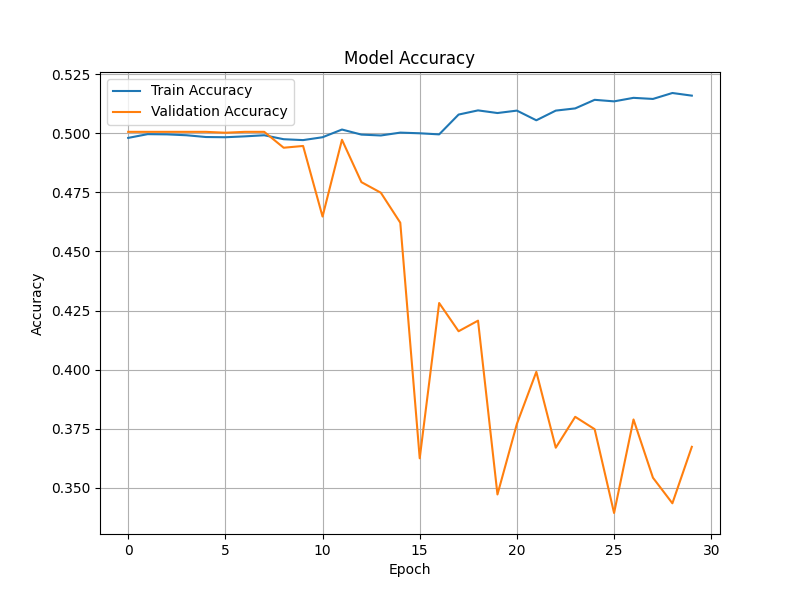
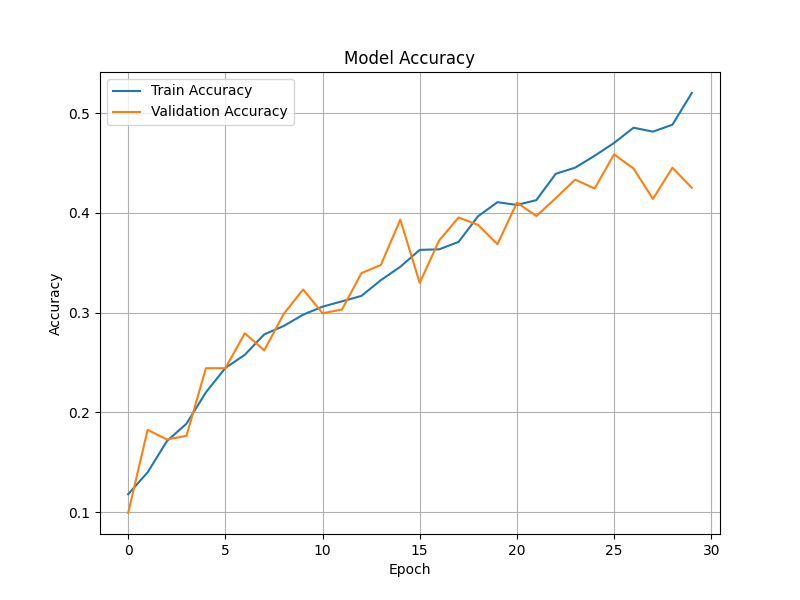
feat: final update of the cnn model for the thesis as well as adding plots and grad-cam images of sample data

diff --git a/mushroom_classifier/shroomModel.py b/mushroom_classifier/shroomModel.py
@@ -1,16 +1,46 @@
 import os
+import random
 
+import cv2
 import kagglehub
 import matplotlib.pyplot as plt
 import numpy as np
+import pandas as pd
 import seaborn as sns
 import tensorflow as tf
 from keras.callbacks import EarlyStopping, ReduceLROnPlateau
-from keras.layers import Conv2D, Dense, Dropout, Flatten, MaxPooling2D
-from keras.models import Sequential
+from keras.layers import Conv2D, Dense, Dropout, Flatten, Input, MaxPooling2D
 from PIL import ImageFile
 from sklearn.metrics import classification_report, confusion_matrix
+from sklearn.model_selection import train_test_split
+from sklearn.utils.class_weight import compute_class_weight
 from tensorflow.keras.preprocessing.image import ImageDataGenerator
+
+
+def make_gradcam_heatmap(img_array, model, last_conv_layer_name, pred_index=None):
+    grad_model = tf.keras.models.Model(
+        model.inputs, [model.get_layer(last_conv_layer_name).output, model.output]
+    )
+    with tf.GradientTape() as tape:
+        conv_outputs, predictions = grad_model(img_array)
+        if pred_index is None:
+            pred_index = tf.argmax(predictions[0])
+        class_channel = predictions[:, pred_index]
+
+    grads = tape.gradient(class_channel, conv_outputs)
+    pooled_grads = tf.reduce_mean(grads, axis=(0, 1, 2))
+    conv_outputs = conv_outputs[0]
+    heatmap = conv_outputs @ pooled_grads[..., tf.newaxis]
+    heatmap = tf.squeeze(heatmap)
+    heatmap = tf.maximum(heatmap, 0) / tf.math.reduce_max(heatmap)
+    return heatmap.numpy()
+
+
+def advanced_preprocessing(image):
+    image = tf.image.random_contrast(image, lower=0.8, upper=1.2)
+    image = tf.image.random_brightness(image, max_delta=0.1)
+    return image
+
 
 print("Downloading dataset from Kaggle...")
 data_dir = kagglehub.dataset_download(
@@ -20,65 +50,113 @@ data_dir = kagglehub.dataset_download(
 mushrooms_dir = os.path.join(data_dir, "Mushrooms")
 
 print(data_dir)
+
 # Define image parameters
-img_height, img_width = 150, 150
+img_height, img_width = 224, 244
 batch_size = 32
 
-# Create train-validation split
-
+# Enable loading of truncated images
 ImageFile.LOAD_TRUNCATED_IMAGES = True
 
-print("Preparing dataset...")
-data_gen = ImageDataGenerator(
+# Prepare dataframe for stratified split
+print("Preparing dataframe...")
+all_image_paths = []
+all_labels = []
+
+for class_name in sorted(os.listdir(mushrooms_dir)):
+    class_dir = os.path.join(mushrooms_dir, class_name)
+    if os.path.isdir(class_dir):
+        for fname in os.listdir(class_dir):
+            if fname.lower().endswith((".png", ".jpg", ".jpeg")):
+                all_image_paths.append(os.path.join(class_dir, fname))
+                all_labels.append(class_name)
+
+df = pd.DataFrame({"filepath": all_image_paths, "label": all_labels})
+
+# Stratified split
+train_df, val_df = train_test_split(
+    df, test_size=0.2, stratify=df["label"], random_state=42
+)
+
+print(f"Train size: {len(train_df)}, Validation size: {len(val_df)}")
+
+# Data generators
+train_datagen = ImageDataGenerator(
     rescale=1.0 / 255,
-    validation_split=0.2,
     rotation_range=15,
     width_shift_range=0.05,
     height_shift_range=0.05,
     shear_range=0.05,
     zoom_range=0.1,
     horizontal_flip=True,
+    brightness_range=[0.8, 1.2],
     fill_mode="nearest",
+    preprocessing_function=advanced_preprocessing,
 )
 
+val_datagen = ImageDataGenerator(rescale=1.0 / 255)
 
-train_data = data_gen.flow_from_directory(
-    mushrooms_dir,
+# Flow from dataframe
+train_data = train_datagen.flow_from_dataframe(
+    train_df,
+    x_col="filepath",
+    y_col="label",
     target_size=(img_height, img_width),
     batch_size=batch_size,
     class_mode="categorical",
-    subset="training",
     shuffle=True,
 )
 
-print(train_data.class_indices)
-
-validation_data = data_gen.flow_from_directory(
-    mushrooms_dir,
+validation_data = val_datagen.flow_from_dataframe(
+    val_df,
+    x_col="filepath",
+    y_col="label",
     target_size=(img_height, img_width),
     batch_size=batch_size,
     class_mode="categorical",
-    subset="validation",
+    shuffle=False,
 )
+
+# Compute class weights
+print("Computing class weights...")
+class_indices = train_data.class_indices
+inverse_class_indices = {v: k for k, v in class_indices.items()}
+y_train_labels = train_data.classes
+
+class_weights_values = compute_class_weight(
+    class_weight="balanced",
+    classes=np.unique(y_train_labels),
+    y=y_train_labels,
+)
+class_weights = dict(enumerate(class_weights_values))
+
+print("Class weights:", class_weights)
 
 # Build CNN model
 print("Building CNN model...")
-model = Sequential(
-    [
-        Conv2D(32, (3, 3), activation="relu", input_shape=(img_height, img_width, 3)),
-        MaxPooling2D(2, 2),
-        Conv2D(64, (3, 3), activation="relu"),
-        MaxPooling2D(2, 2),
-        Conv2D(128, (3, 3), activation="relu"),
-        MaxPooling2D(2, 2),
-        Conv2D(256, (3, 3), activation="relu"),
-        MaxPooling2D(2, 2),
-        Flatten(),
-        Dense(256, activation="relu"),
-        Dropout(0.5),
-        Dense(len(train_data.class_indices), activation="softmax"),
-    ]
-)
+inputs = Input(shape=(img_height, img_width, 3))
+
+x = Conv2D(32, (3, 3), activation="relu")(inputs)
+x = MaxPooling2D(2, 2)(x)
+
+x = Conv2D(64, (3, 3), activation="relu")(x)
+x = MaxPooling2D(2, 2)(x)
+
+x = Conv2D(128, (3, 3), activation="relu")(x)
+x = MaxPooling2D(2, 2)(x)
+
+x = Conv2D(256, (3, 3), activation="relu")(x)
+x = MaxPooling2D(2, 2)(x)
+
+x = Conv2D(256, (3, 3), activation="relu", name="last_conv")(x)
+x = MaxPooling2D(2, 2)(x)
+
+x = Flatten()(x)
+x = Dense(256, activation="relu")(x)
+x = Dropout(0.4)(x)
+outputs = Dense(len(train_data.class_indices), activation="softmax")(x)
+
+model = tf.keras.models.Model(inputs, outputs)
 
 # Compile the model
 model.compile(optimizer="adam", loss="categorical_crossentropy", metrics=["accuracy"])
@@ -86,9 +164,15 @@ model.compile(optimizer="adam", loss="categorical_crossentropy", metrics=["accur
 early_stop = EarlyStopping(monitor="val_loss", patience=5, restore_best_weights=True)
 lr_scheduler = ReduceLROnPlateau(monitor="val_loss", factor=0.5, patience=3, verbose=1)
 
-# Train the model
-print("Training model...")
-history = model.fit(train_data, validation_data=validation_data, epochs=30)
+# Train the model with class weights
+print("Training model with class weights...")
+history = model.fit(
+    train_data,
+    validation_data=validation_data,
+    epochs=30,
+    class_weight=class_weights,
+    callbacks=[early_stop, lr_scheduler],
+)
 
 # Save the model
 model_save_path = "aiModels/mushroom_classifier_model_20epochs.h5"
@@ -100,8 +184,48 @@ print("Evaluating model...")
 evaluation = model.evaluate(validation_data)
 print(f"Validation Loss: {evaluation[0]}, Validation Accuracy: {evaluation[1]}")
 
-# --- 🔟 PLOTS for paper ---
 os.makedirs("plots", exist_ok=True)
+
+true_classes = validation_data.classes
+class_labels = list(validation_data.class_indices.keys())
+
+last_conv_layer_name = "last_conv"
+os.makedirs("plots/gradcam_examples", exist_ok=True)
+
+for class_name in class_labels:
+    print(f"Generating Grad-CAMs for class: {class_name}")
+    class_dir = os.path.join(mushrooms_dir, class_name)
+    image_files = os.listdir(class_dir)
+    selected_files = random.sample(image_files, 2)
+
+    for idx, img_file in enumerate(selected_files):
+        img_path = os.path.join(class_dir, img_file)
+
+        # Load image
+        img = tf.keras.preprocessing.image.load_img(
+            img_path, target_size=(img_height, img_width)
+        )
+        img_array = tf.keras.preprocessing.image.img_to_array(img)
+        img_array = np.expand_dims(img_array, axis=0)
+        img_array /= 255.0
+
+        # Compute heatmap
+        heatmap = make_gradcam_heatmap(img_array, model, last_conv_layer_name)
+
+        # Superimpose on original image
+        img_orig = cv2.imread(img_path)
+        img_orig = cv2.resize(img_orig, (img_width, img_height))
+        heatmap = cv2.resize(heatmap, (img_width, img_height))
+        heatmap = np.uint8(255 * heatmap)
+        heatmap_color = cv2.applyColorMap(heatmap, cv2.COLORMAP_JET)
+        superimposed_img = cv2.addWeighted(img_orig, 0.6, heatmap_color, 0.4, 0)
+
+        # Save
+        save_path = f"plots/gradcam_examples/{class_name}_{idx + 1}.png"
+        cv2.imwrite(save_path, superimposed_img)
+        print(f"Saved: {save_path}")
+
+print("Grad-CAM visualization DONE. Check folder 'plots/gradcam_examples/'.")
 
 # Accuracy plot
 plt.figure(figsize=(8, 6))
@@ -127,16 +251,11 @@ plt.grid(True)
 plt.savefig("plots/loss_curve.png")
 plt.show()
 
-# --- 1⃣1⃣ Confusion Matrix + Classification Report ---
 print("Generating confusion matrix and classification report...")
 
 # Predict on validation set
 Y_pred = model.predict(validation_data)
 y_pred = np.argmax(Y_pred, axis=1)
-
-# True labels
-true_classes = validation_data.classes
-class_labels = list(validation_data.class_indices.keys())
 
 # Confusion Matrix
 cm = confusion_matrix(true_classes, y_pred)
@@ -160,7 +279,6 @@ plt.show()
 report = classification_report(true_classes, y_pred, target_names=class_labels)
 print(report)
 
-# Optionally save report to file
 with open("plots/classification_report.txt", "w") as f:
     f.write(report)
 
